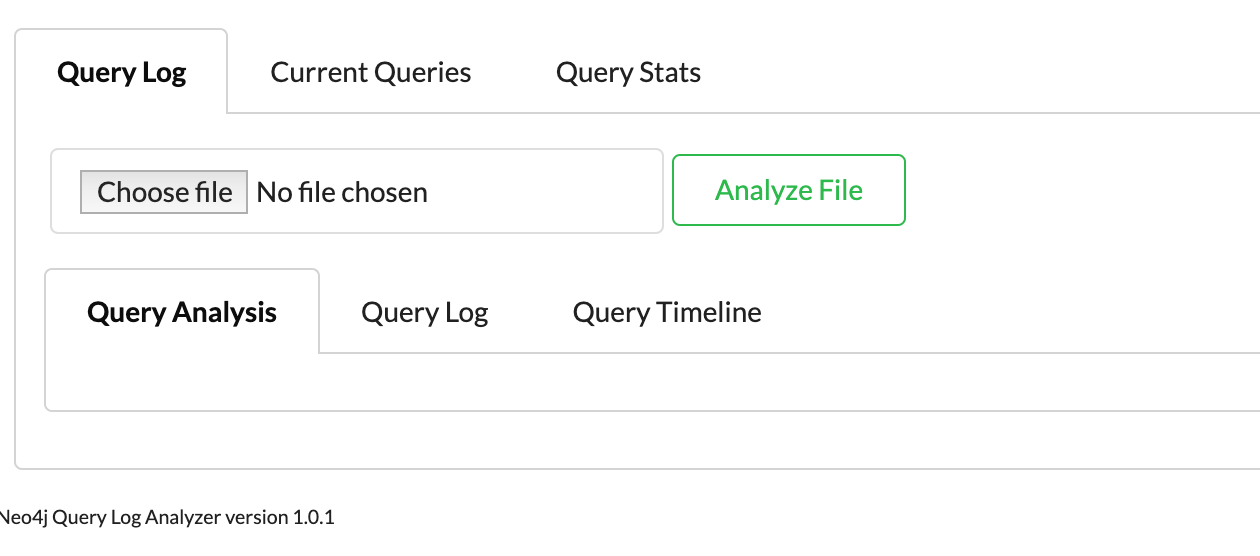
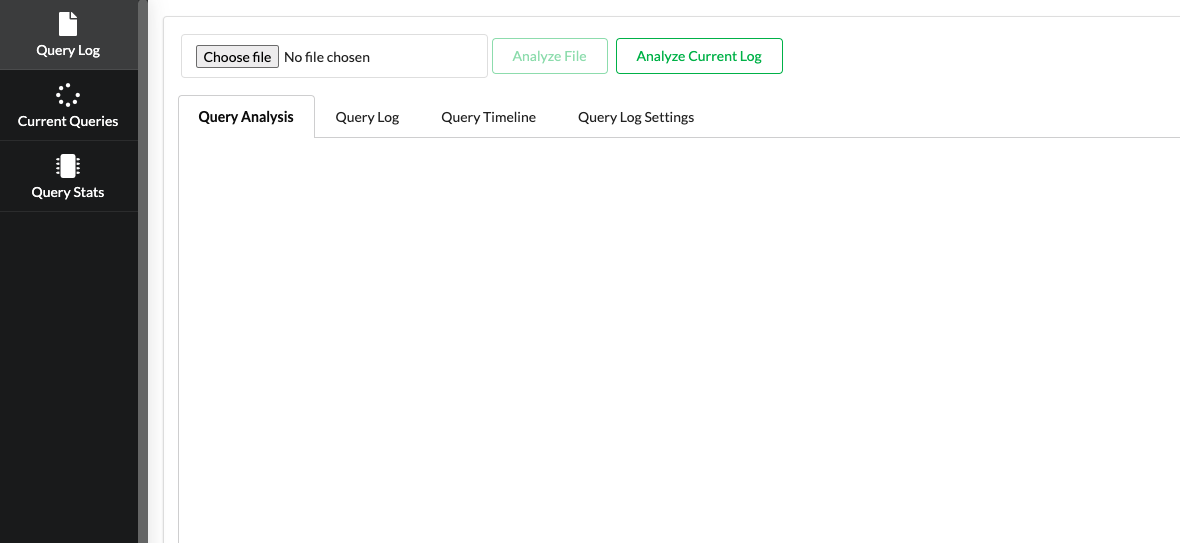
new left vertical menu layout, fixes and 4.1 additions

diff --git a/README.md b/README.md
@@ -19,10 +19,11 @@ So even without the query log file you can now check the query load on your neo4
 
 ## Query Log 
 
-The Query Log Analyzer needs a query.log file. You can upload this file to the tool and then the tool will analyze this file. After analyzing the file the following message will be shown:
+The Analyzer File function needs a query.log to be uploaded, when apoc is installed then it is possible to analyze the current query.log file on the server. the Analyze Current Log function is available. Both functions will analyze the query log file and after that the following message will be shown:
+
 <img src="qla.png"/>
 
-In this example the query log file has 26 rows (each query one row) and 6 distinct queries are found. These 6 distinct queries are shown in the “Query Analysis” tab where you can find per query the statistics. 
+In this example the query log file has 985 rows (each query one row) and 61 distinct queries are found. These 61 distinct queries are shown in the “Query Analysis” tab where you can find per query the statistics. 
 
 #### Query Analysis
 In the Query Analysis Tab you will see the distinct queries ordered by Query Count * Avg Time descending. Which means that the most expensive query from the log file is placed on top.
